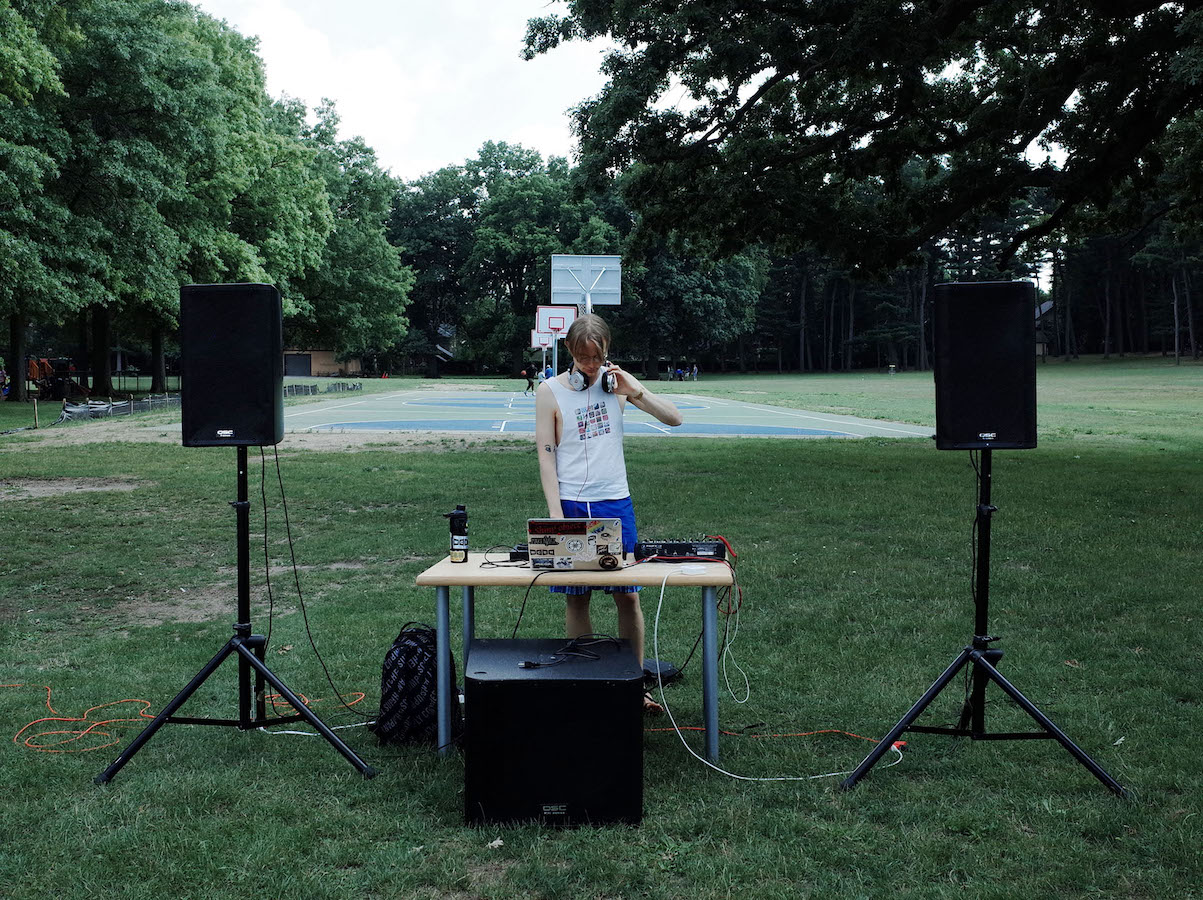
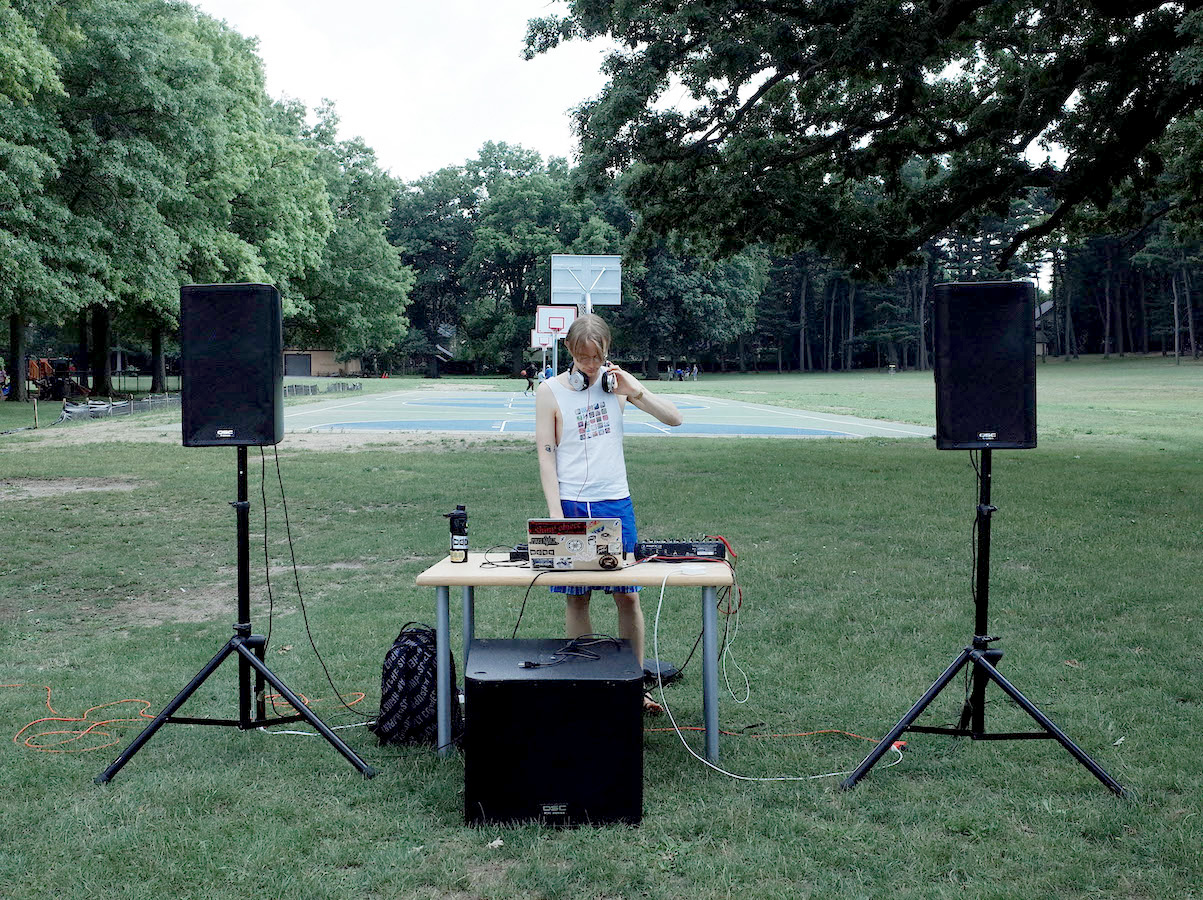
edited images and adjusted type scale slightly

diff --git a/index.html b/index.html
@@ -24,7 +24,7 @@
     <div class="post">
         <div class="row">
             <div class="column-colap-1">
-                <img src="imgs/jersey-test-logo.png" style="height: 14px; width: auto; align: left; border-radius: 0px;">
+                <img src="imgs/jersey-test-logo.png" style="height: 18px; width: auto; align: left; border-radius: 0px;">
             </div>
             <div class="column-colap-2">
                 <h1><a href="https://discord.gg/6BmFvAj8">Discord</a></h1>
@@ -46,21 +46,15 @@
                 <div class="absolute3">
                     <div class="blink2"><h1>+</h1><h2>Photo: Judi at B.Y.O. USB, Beer, Blankets</h2></div>
                 </div>
-                <div class="absolute4">
-                    <div class="blink3"><h1>+</h1><h2>Jersey is a loosely organized creative collective and platform created to share and archive works of art made by friends.</h2></div>
-                </div>
-                <div class="absolute6">
-                    <div class="blink4"><h1>+</h1><h2>We are currently seeking new outputs. If you're interested in being featured on the site or have a project in mind, please join our Discord and say hi.</h2></div>
-                </div>
     </div>
             
 <div class="menu" style="padding-left: 0px; padding-bottom: 0px;">
 <div id="myBtnContainer">
-    <button class="btn active" onclick="filterSelection('all')"><h1>Show all</h1></button>
-  <button class="btn" onclick="filterSelection('mix')"> <h1>Mix</h1></button>
-    <button class="btn" onclick="filterSelection('art')"><h1>Art</h1></button>
-  <button class="btn" onclick="filterSelection('event')"><h1>Event</h1></button>
-  <button class="btn" onclick="filterSelection('zine')"><h1>Zine</h1></button>
+    <button class="btn active" onclick="filterSelection('all')"><p>Show all</p></button>
+  <button class="btn" onclick="filterSelection('mix')"> <p>Mix</p></button>
+    <button class="btn" onclick="filterSelection('art')"><p>Art</p></button>
+  <button class="btn" onclick="filterSelection('event')"><p>Event</p></button>
+  <button class="btn" onclick="filterSelection('zine')"><p>Zine</p></button>
 </div>
     </div>
     <div class="menu">
@@ -113,7 +107,7 @@
         </div>
         
         <div class="column2-type">
-             <h1>Lorem Ipsum</h1>
+             <p>Lorem Ipsum</p>
         </div>
             
         <div class="column3-type">
@@ -152,11 +146,11 @@
         </div>
         
         <div class="column2-type">
-             <h1> Coltrane's birthday mix, celebrating their life and the long-anticipated release of the 4th installment in the Pikmin franchise, Pikmin 4</h1>
+             <p> Coltrane's birthday mix, celebrating their life and the long-anticipated release of the 4th installment in the Pikmin franchise, Pikmin 4</p>
         </div>
             
         <div class="column3-type">
-            <a href="https://spinitron.com/WCBN/pl/17674818/approaching">tracklist</a>
+            <p><a href="https://spinitron.com/WCBN/pl/17674818/approaching">tracklist</a></p>
         </div>
         </div>
 
@@ -191,7 +185,7 @@
         </div>
         
         <div class="column2-type">
-             <h1>sunny as fuck schmix</h1>
+             <p>sunny as fuck schmix</p>
         </div>
             
         <div class="column3-type">
@@ -228,7 +222,7 @@
         </div>
         
         <div class="column2-type">
-             <h1>alt: no alternative</h1>
+             <p>alt: no alternative</p>
         </div>
             
         <div class="column3-type">
@@ -317,35 +311,33 @@
   </div>
                 
   <div class="mySlides2">
-    <img src="imgs/02-byo/A0000685.JPG">
-  </div>
-                
-  <div class="mySlides2">
     <img src="imgs/02-byo/A0000654.jpg">
   </div>
 
 </div>
 <br>
             
+    <video width="320" height="240" controls>
+  <source src="movie.mp4" type="video/mp4">
+  <source src="movie.ogg" type="video/ogg">
+Your browser does not support the video tag.
+</video>
+            
         </div>
         
         <div class="column2-type">
-            <p><em>Info</em></p>
             <p>Daytime open air, open decks on the most beautiful day ever.</p><br>
         </div>
             
         <div class="column3-type">
-        <p><em>Event Poster</em></p>
-        <p><a href="https://carterteranes.com/">Carter Teranes</a></p><br>
-        <p><em>Special Credits</em></p>
+        <p><a href="https://carterteranes.com/">Carter</a></p><br>
         <p>Faulkner</p>
         <p>Jackson</p>
         <p>Jacob</p>
         <p>Dove</p>
         <p>GG</p><br>
-        <p><em>Photos</em></p>
-        <p>Ben Werkman</p>
-        <p>Nick Overholt</p><br>
+        <p>Ben</p>
+        <p>Nick</p><br>
         </div>
         </div>
 

diff --git a/styles.css b/styles.css
@@ -35,7 +35,7 @@ h1{
     padding: 0px;
     margin: 0px;
     font-family: 'tex_gyre_herosregular';
-    font-size: 14px;
+    font-size: 16px;
     line-height: 1.1;
     font-weight: normal;
 }
@@ -52,7 +52,7 @@ h2{
 }
 
 h3{
-    font-family: 'tex_gyre_heros_cnbold';
+    font-family: 'tex_gyre_herosregular';
     padding: 0px;
     margin: 0px;
     font-weight: 100;
@@ -66,7 +66,7 @@ h3{
 p{
     padding: 0px;
     margin: 0px;
-    font-size: 14px;
+    font-size: 16px;
     line-height: 1.2;
     font-weight: normal;
     font-family: 'tex_gyre_herosregular';
@@ -305,7 +305,6 @@ div.absolute6 {
   padding: 0em;
     padding-right: 0px;
     padding-left: 0px;
-    text-align: right;
 }
 
 .column-colap-3 {
@@ -314,7 +313,6 @@ div.absolute6 {
   padding: 0em;
     padding-right: 0px;
     padding-left: 0px;
-    text-align: right;
 }
 
 .column-colap-4 {
@@ -323,7 +321,6 @@ div.absolute6 {
   padding: 0em;
     padding-right: 0px;
     padding-left: 0px;
-    text-align: right;
 }
 
 .audio-entry {
